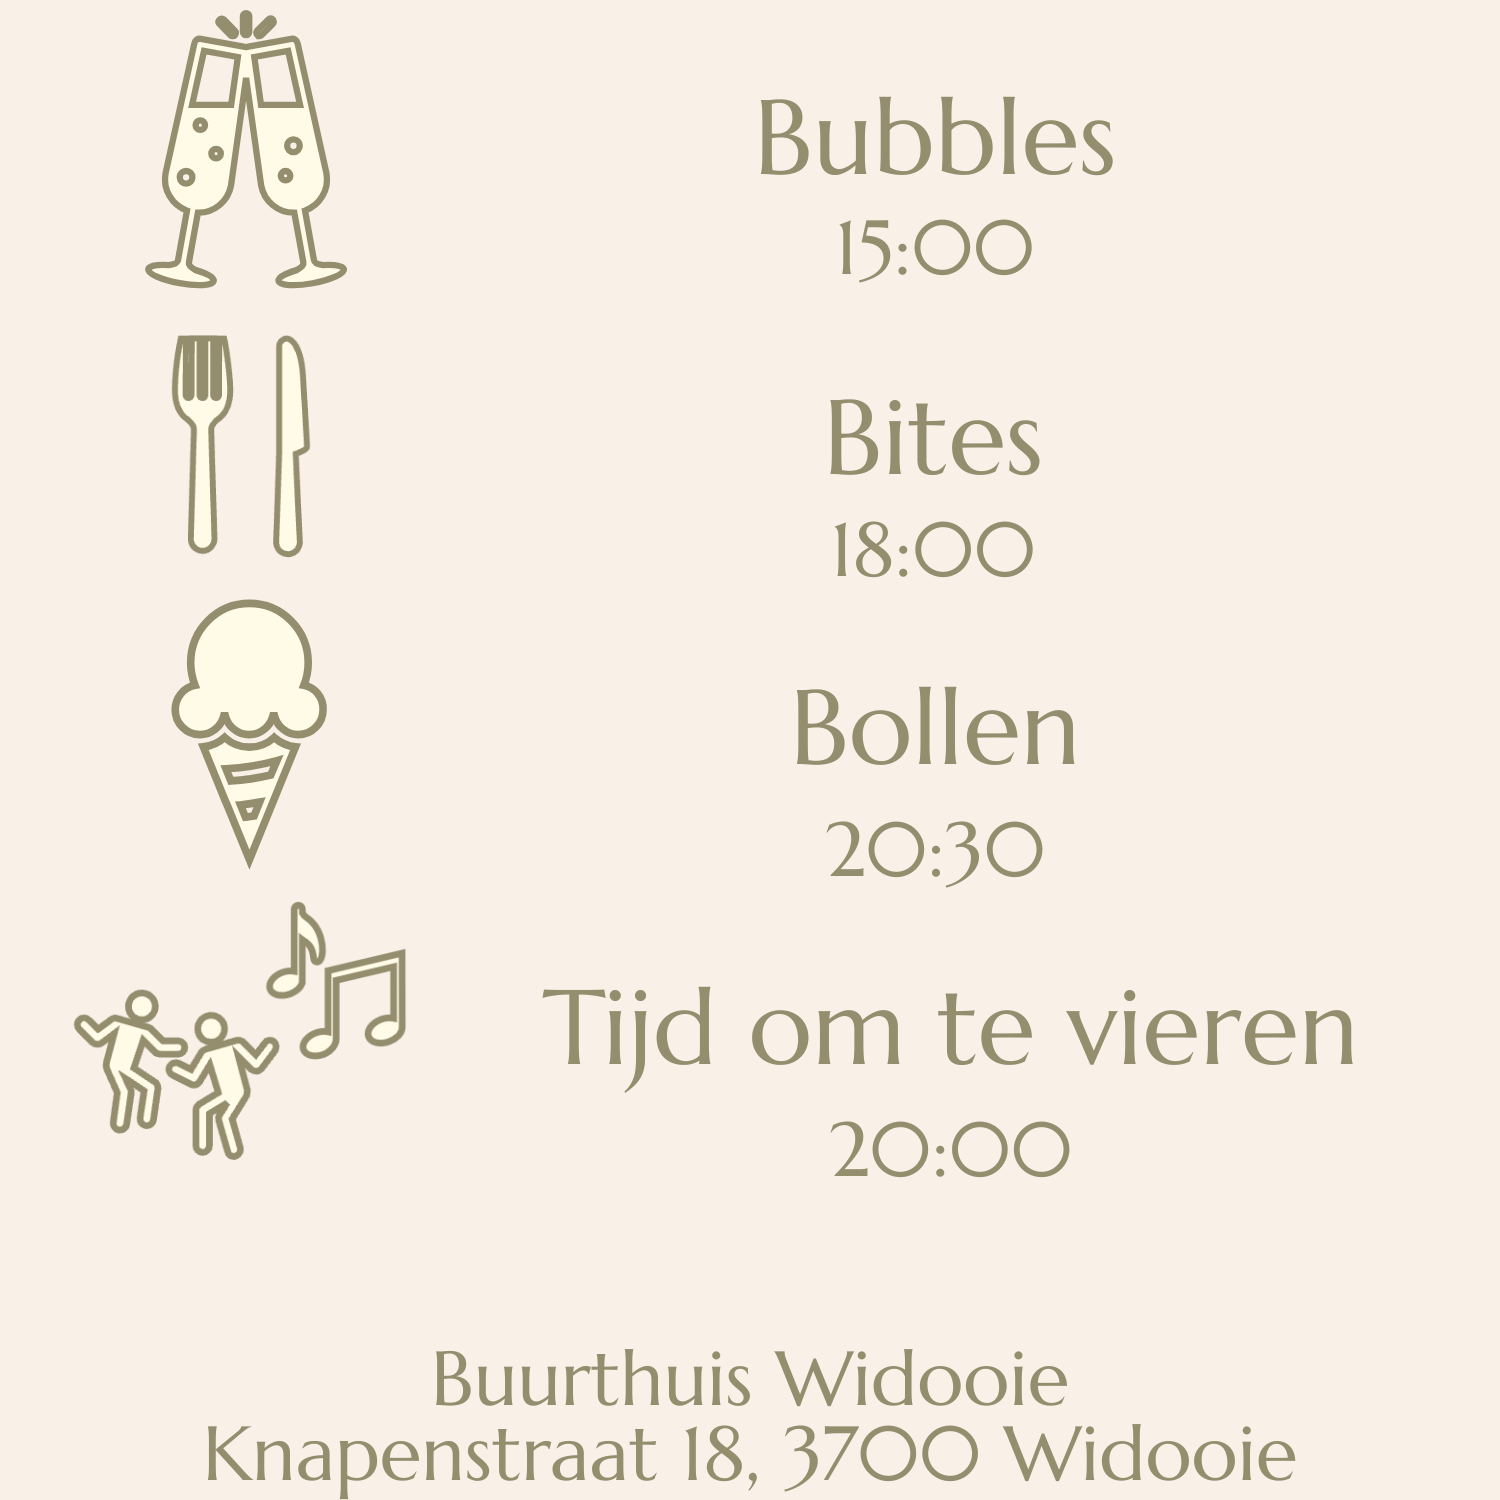
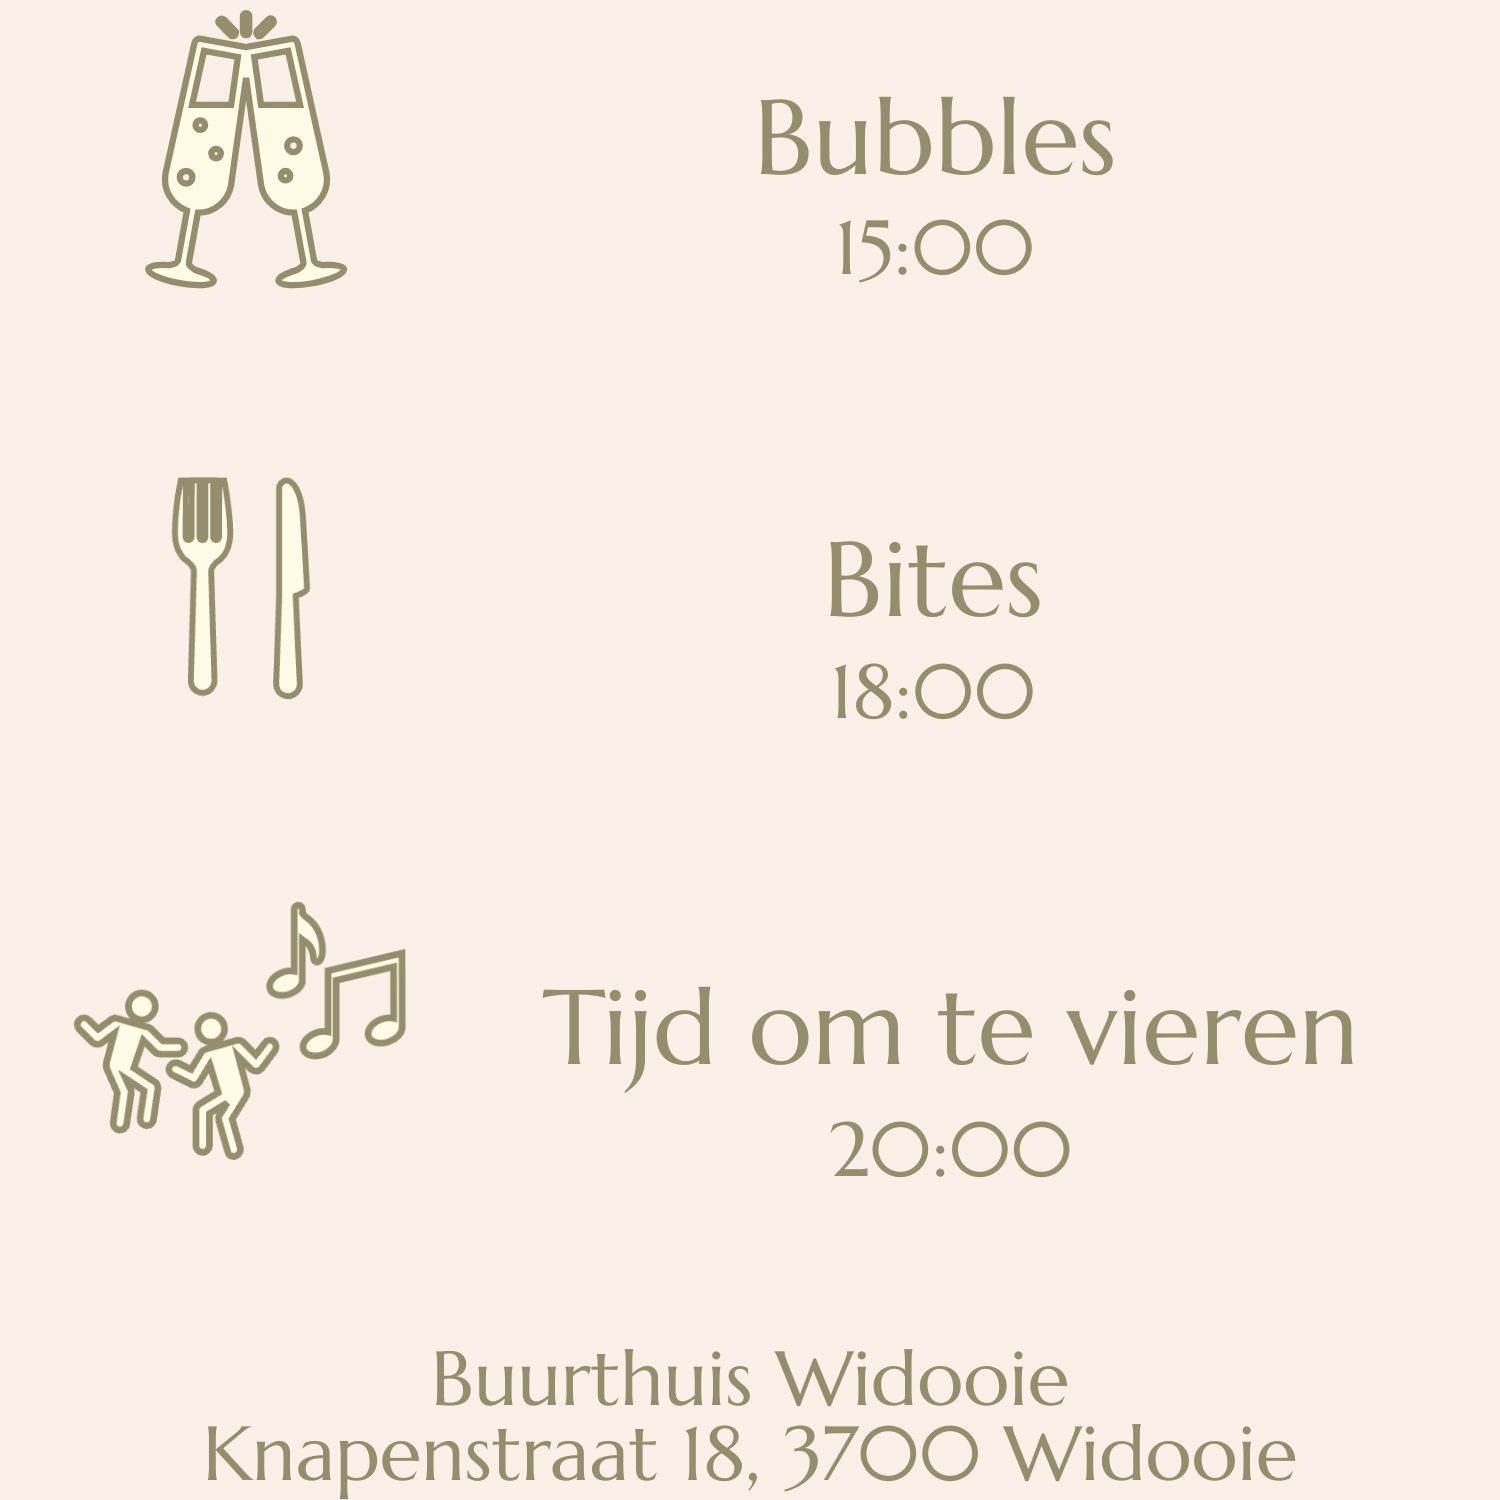
hallo!

Changed region(s): [[0.5213, 0.2453, 0.736, 0.5213], [0.092, 0.2147, 0.2147, 0.5827], [0.552, 0.552, 0.7053, 0.5827]]

diff --git a/index.html b/index.html
@@ -62,7 +62,7 @@
     margin: auto;
     }
     h1 {
-      aspect-ratio: 4;
+      aspect-ratio: 5;
       background-image: url('icons/planning.png');
       background-repeat: no-repeat;
       background-position: center center;

diff --git a/poll.html b/poll.html
@@ -49,7 +49,7 @@
     }
 
     h1 {
-      aspect-ratio: 1.5;
+      aspect-ratio: 1.75;
       background-image: url('icons/planning.png');
       background-repeat: no-repeat;
       background-position: center center;